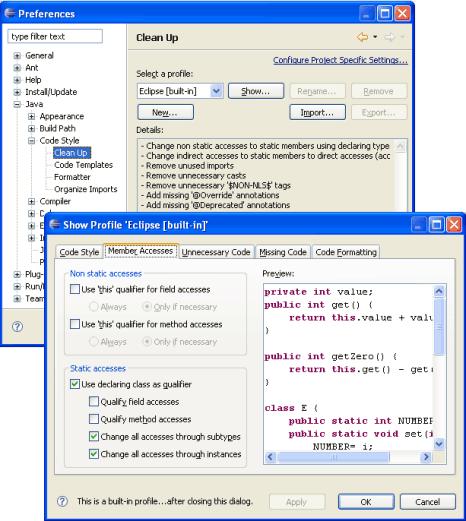
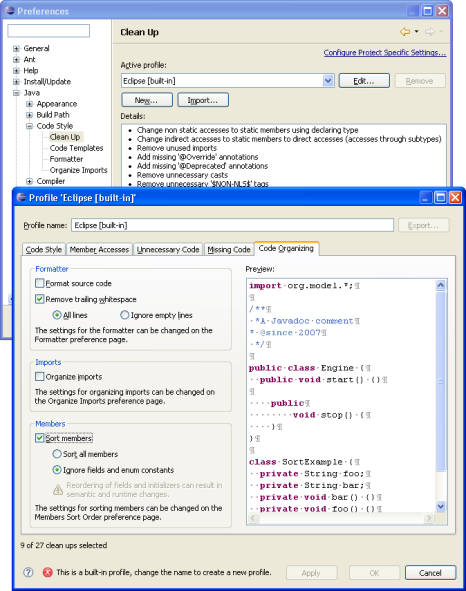
- merged clean ups & moved to refactoring & source actions - merged code formatter

diff --git a/bundles/org.eclipse.jdt.doc.user/whatsNew/jdt_whatsnew.html b/bundles/org.eclipse.jdt.doc.user/whatsNew/jdt_whatsnew.html
@@ -111,6 +111,37 @@ document for changes in the Platform.
       <p> <img alt="Screenshot showing the sort member action" src="images/sort-members.png"></p></td>
   </tr>
 
+  <tr> 
+    <td><p align="right"><b>Clean Up profiles</b></td>
+    <td><p> A preference page has replaced the <b>Source 
+      &gt; Clean Up</b> wizard. Clean Up profiles can be defined on this preference 
+      page. A profile can be attached to the workspace or to individual projects. 
+      Project settings can be shared in a team through a version control system. 
+      It is also possible to export and import each profile.</p>
+      <p> <img src="images/cleanupprofiles.png" alt="Clean Up preference page"> 
+      </p></td>
+  </tr>
+
+  <tr>
+    <td><p align="right"><b>New clean ups</b></td>
+    <td><p>The following Clean Ups have been implemented:</p>
+      <ul>
+        <li><b>Format source code</b>: The formatting 
+          settings can be configured on the Formatter preference page.
+        </li>
+        <li><b>Remove trailing whitespace</b>: You can choose to remove
+          trailing whitespace on all lines or to ignore empty lines.
+        </li>
+        <li><b>Organize imports</b>: Imports are organized according to the
+          settings for the project or workspace.
+        </li>
+        <li><b>Sort members</b>: You can sort either all members of a compilation
+          unit, or ignore fields, enum constants, and initializers (because sorting
+          such members may result in semantic changes).
+        </li>
+      </ul>
+  </tr>
+  
     <!-- ******************* Java Editor ************************************* -->
     <tr> 
       <td colspan="2"><a name="JavaEditor"></a> <div style="font-size: 20px; font-weight: bold;"> 
@@ -738,103 +769,34 @@ public class Test {
           Miscellaneous</div></td>
     </tr>
 
-  <tr> 
-    <td><p align="right"><b>Clean Up preference page</b></td>
-    <td><p> A preference page has replaced the <b>Source 
-      &gt; Clean Up</b> wizard. Clean Up profiles can be defined on this preference 
-      page. A profile can be attached to the workspace or to individual projects. 
-      Project settings can be shared in a team through a version control system. 
-      It is also possible to export and import each profile.</p>
-      <p> <img src="images/cleanupprofiles.png" alt="Clean Up preference page"> 
-      </p></td>
-  </tr>
-
-  <tr>
-    <td><p align="right"><b>New clean ups
-          and save actions</b></td>
-    <td><p>Two new Clean Ups have been implemented:</p>
-      <ul>
-        <li>Remove trailing whitespace</li>
-        <li>Sort members</li>
-      </ul>
-      <p> You can choose to remove trailing whitespace on all lines or to ignore
-        empty lines. Sort members can sort either all members of a compilation
-        unit, or ignore fields, enum constants, and initializers (because sorting
-        such members may result in semantic changes). </p>
-      <p> <img src="images/cleanup-dialog.png" alt="Clean Up modification dialog"> </p>
-      <p> Remove trailing whitespace and sort members are also available as Save
-        actions. </p></td>
-  </tr>
-
-  <tr>
-    <td><p align="right"><b>Organize imports on Clean Up</b> </td>
-    <td><p>You can now organize imports during code clean
-      up.</p>
-      <p>This Clean Up can be enabled on the <b>Java &gt; Code Style &gt; Clean
-          Up &gt; Edit</b> preference page.</p>
-      <img src="images/clean-up-pp.png" alt="The clean up modify dialog"> </td>
-  </tr>
-        
-  <tr> 
-    <td><p align="right"><b>Formatting during Clean Up</b></td>
-    <td> <p>It is now possible to format source code 
-        and comments during clean up. Formatting during clean up can be enabled 
-        in the Clean Up profiles dialog on the Code Formatting tab. The formatting 
-        settings can be configured on the Formatter preference page.</p>
-      <p> <img src="images/cleanupformat.png" alt="Clean Up Formatting Preference Page"> 
-      </p></td>
-  </tr>
-
   <tr>
     <td><p align="right"><b>New code formatter options</b> </td>
-    <td><p>Some new options have been added to the code
-      formatter preference page (<b>Java
-      &gt; Code Style &gt;
-      Formatter</b>):</p>
+    <td><p> New options have been added to the
+      <b>Java &gt; Code Style &gt; Formatter</b> preference page:</p>
       <ul>
+        <li><b>Comment formatting</b> can now be enabled and disabled
+        for each comment type individually (Javadoc, block, single line, and header comments).
+        Block and line comments on the first column can be <b>excluded from indentation</b>.
+          <p> <img src="images/formatter-comments.png" alt="Screenshot showing the formatter preferences modify dialog"></p>
+        </li>
+        
         <li>The number of blank lines that Organize Imports (<b>Ctrl+Shift+O</b>)
-          inserts between import groups can be configured on the 'Blank Lines'
+          inserts between import groups can be configured on the <b>Blank Lines</b>
           tab. When formatting, this setting will take precedence over the number
           of blank lines to preserve.
           <p><img src="images/blank-lines-between-imports.png" alt="Screenshot of the formatter preference page showing 'Blank lines between import groups'"></p>
         </li>
-        <li>For return statements, you can now add or remove whitespace before
+        
+        <li><b>Binary expressions</b> can now be wrapped before or after the operator.
+          <p><img src="images/formatter-operator.png" alt="Screenshot showing the formatter preferences modify dialog"></p>
+        </li>
+        
+        <li>For <b>return statements</b>, you can now add or remove whitespace before
           the parenthesized expression of the throw statement. This option is
-          available on 'White Space' tab of the code formatter profile:
+          available on <b>White Space</b> tab.
           <p><img src="images/space-before-throws.png" alt="Screenshot of the formatter preference page showing 'Space before expression throws'"></p>
         </li>
       </ul></td>
-  </tr>
-
-  <tr>
-    <td><p align="right"><b>New code formatter options</b> </td>
-    <td><p> New options have been added to the Java code
-      formatter page:</p>
-      <ul>
-        <li>Binary expressions can now be wrapped before or after the operator
-          <p><img src="images/formatter-operator.png" alt="Screenshot showing the formatter preferences modify dialog"></p>
-        </li>
-      </ul>
-      <ul>
-        <li>Block and line comments on first column can be excluded from indentation
-          <p> <img src="images/formatter-comments.png" alt="Screenshot showing the formatter preferences modify dialog"></p>
-        </li>
-      </ul></td>
-  </tr>
-
-  <tr>
-    <td><p align="right"><b>Format by comment
-          type</b></td>
-    <td> It is now possible to enable and disable comment
-      formatting for each comment type individually. The available comment types
-      are:
-      <ul>
-        <li>Javadoc comment</li>
-        <li>Block comment</li>
-        <li>Single line comment</li>
-        <li>Header comment</li>
-      </ul>
-      <p> <img src="images/formatter.png" alt="Formatter modification dialog"> </p></td>
   </tr>
 
   <tr>
